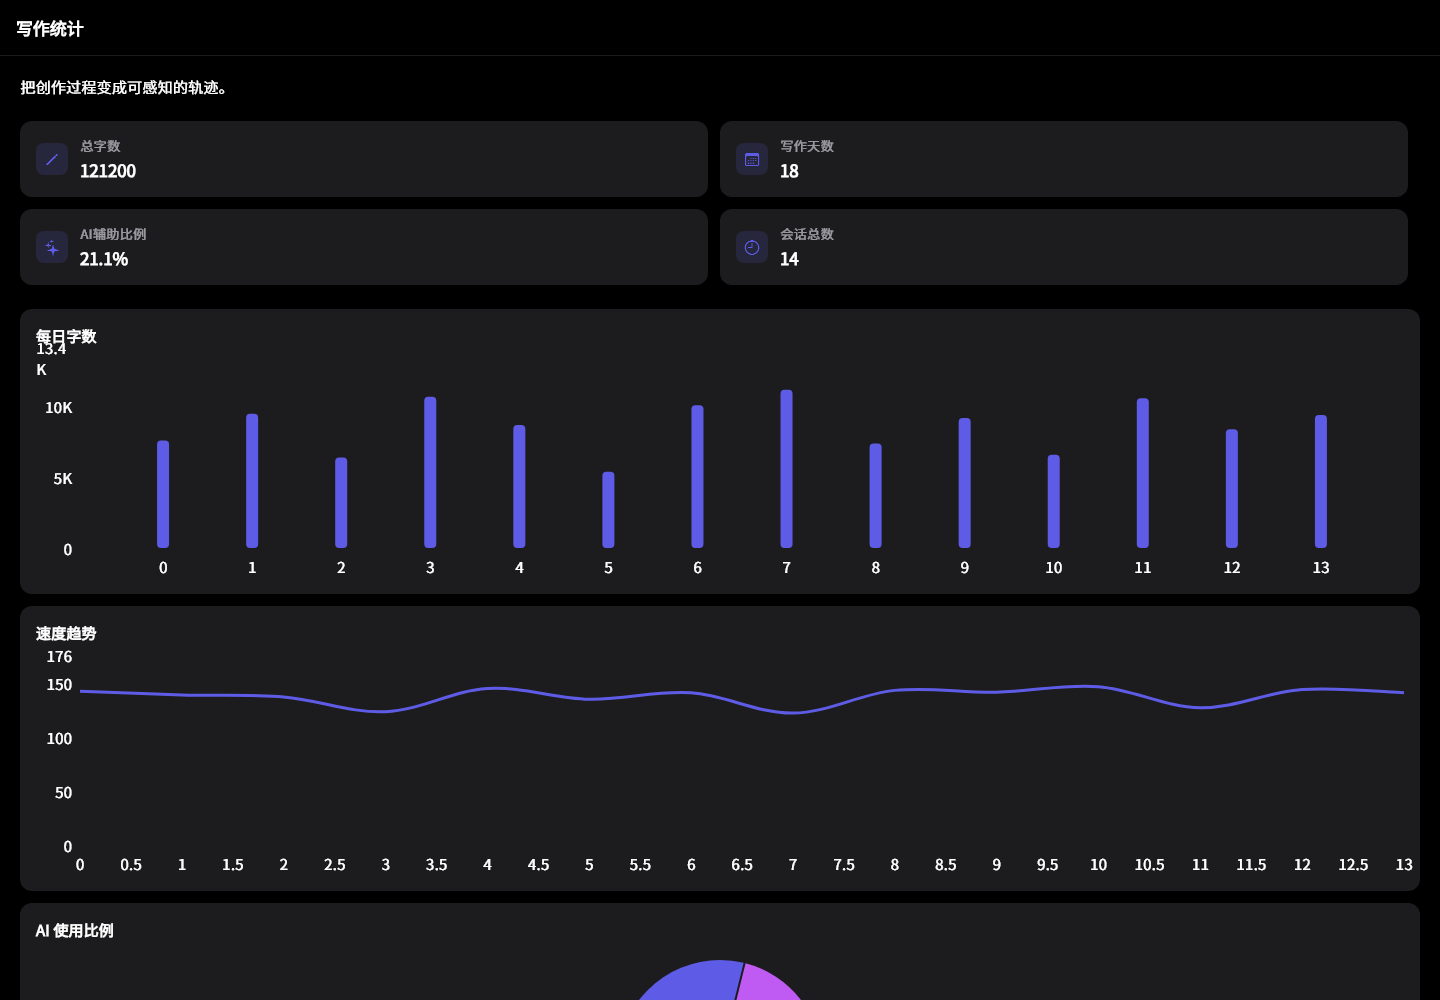
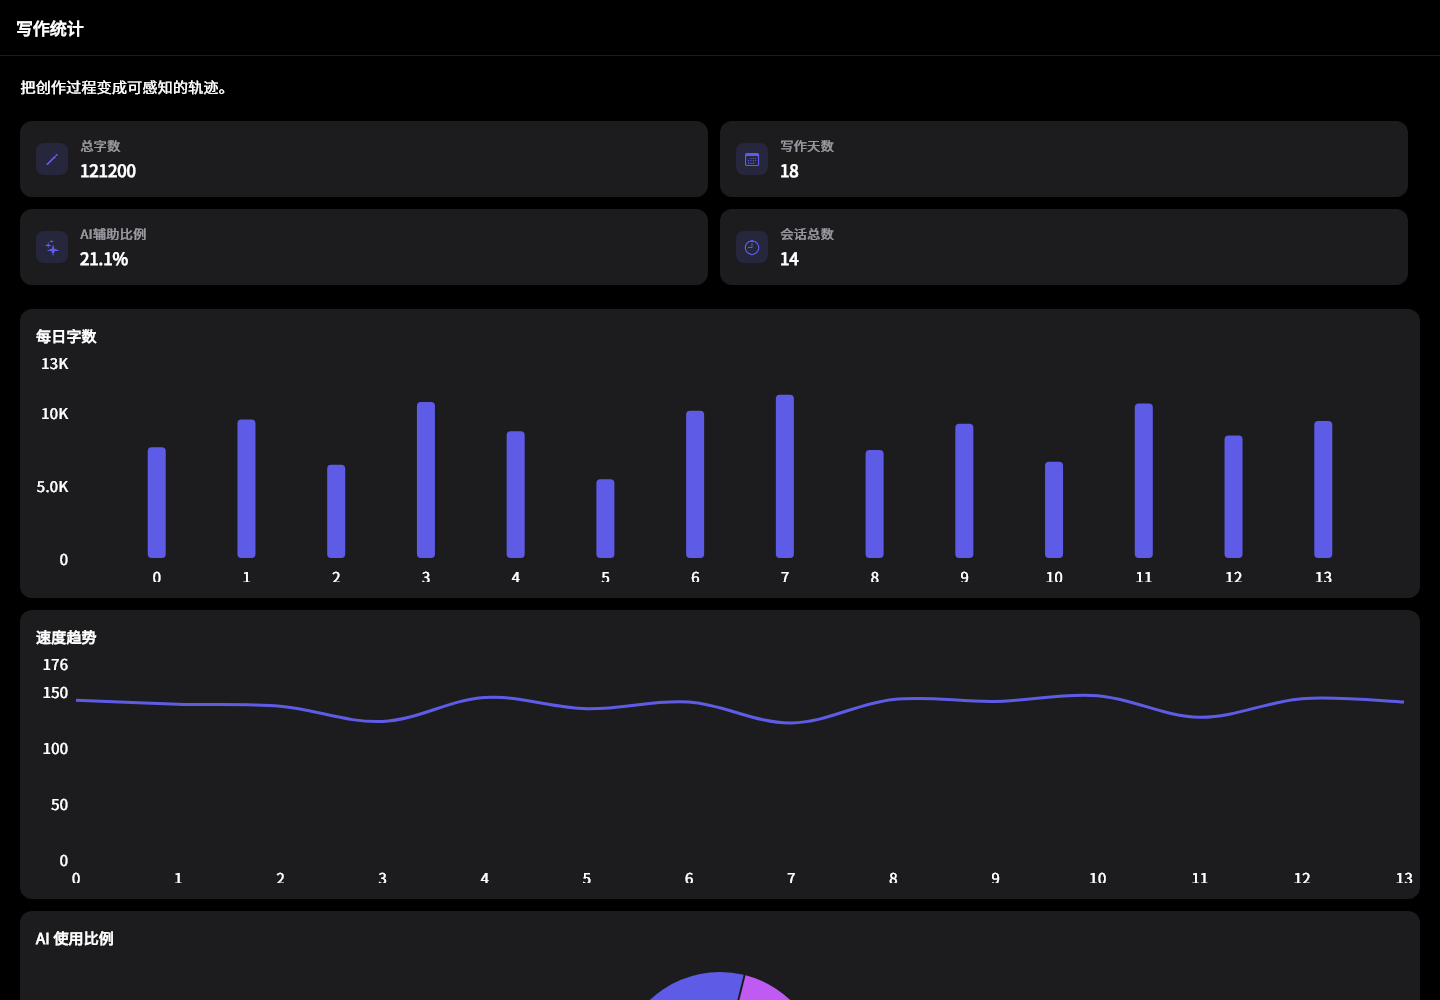
fix(stats): integer day axes and compact K labels for words/speed charts
The daily-words and speed-trend charts used fl_chart's default axis
titles: fractional day ticks (0.5, 1.5 …) on the bottom and an
undersized left gutter that wrapped '13400' into '13 4 K' under the
card title. Add a shared chart_axes helper — integer day labels spaced
by series length, compact K-format counts with a 40pt gutter — widen
the bars to 18px, round padded axis tops, and bump the chart-card
title spacing. Regenerate the writing-stats golden.

diff --git a/lib/features/stats/presentation/charts/chart_axes.dart b/lib/features/stats/presentation/charts/chart_axes.dart
@@ -1,0 +1,48 @@
+/// Shared fl_chart axis builders for the stats charts.
+///
+/// The default axis titles render raw doubles — fractional day indices on
+/// the bottom (0.5, 1.5 …) and oversized numbers that wrap ("13400" →
+/// "13 4 K") on the left. These helpers render integer day labels and
+/// compact K-format counts instead.
+library;
+
+import 'package:fl_chart/fl_chart.dart';
+import 'package:flutter/material.dart';
+
+/// Bottom axis for day-indexed series: integer labels (0, 1, 2 …) spaced
+/// so at most ~15 ticks render regardless of series length.
+AxisTitles bottomDayTitles(int count) {
+  final interval = (count / 15).ceil().clamp(1, 7).toDouble();
+  return AxisTitles(
+    sideTitles: SideTitles(
+      showTitles: true,
+      reservedSize: 24,
+      interval: interval,
+      getTitlesWidget: (value, meta) =>
+          SideTitleWidget(meta: meta, child: Text('${value.round()}')),
+    ),
+  );
+}
+
+/// Left axis with compact labels (13400 → 13.4K) and enough reserved
+/// width that the top label never wraps into the card title.
+AxisTitles leftCompactTitles({double reservedSize = 40}) {
+  return AxisTitles(
+    sideTitles: SideTitles(
+      showTitles: true,
+      reservedSize: reservedSize,
+      getTitlesWidget: (value, meta) =>
+          SideTitleWidget(meta: meta, child: Text(_compact(value))),
+    ),
+  );
+}
+
+String _compact(double value) {
+  if (value >= 1000) {
+    final k = value / 1000;
+    final label = k >= 10 ? k.toStringAsFixed(0) : k.toStringAsFixed(1);
+    return '${label}K';
+  }
+  // Non-integer tops (maxY * 1.2 padding) round to keep labels compact.
+  return value.round().toString();
+}

diff --git a/lib/features/stats/presentation/charts/daily_words_bar_chart.dart b/lib/features/stats/presentation/charts/daily_words_bar_chart.dart
@@ -1,6 +1,7 @@
 import 'package:fl_chart/fl_chart.dart';
 import 'package:flutter/material.dart';
 import 'package:museflow/features/stats/domain/daily_writing_stats.dart';
+import 'chart_axes.dart';
 
 class DailyWordsBarChart extends StatelessWidget {
   const DailyWordsBarChart({super.key, required this.dailyStats});
@@ -26,9 +27,15 @@ class DailyWordsBarChart extends StatelessWidget {
           maxY: maxY <= 0 ? 1 : maxY * 1.2,
           gridData: const FlGridData(show: false),
           borderData: FlBorderData(show: false),
-          titlesData: const FlTitlesData(
-            topTitles: AxisTitles(sideTitles: SideTitles(showTitles: false)),
-            rightTitles: AxisTitles(sideTitles: SideTitles(showTitles: false)),
+          titlesData: FlTitlesData(
+            topTitles: const AxisTitles(
+              sideTitles: SideTitles(showTitles: false),
+            ),
+            rightTitles: const AxisTitles(
+              sideTitles: SideTitles(showTitles: false),
+            ),
+            leftTitles: leftCompactTitles(),
+            bottomTitles: bottomDayTitles(dailyStats.length),
           ),
           barGroups: [
             for (var i = 0; i < dailyStats.length; i++)
@@ -39,7 +46,7 @@ class DailyWordsBarChart extends StatelessWidget {
                     toY: dailyStats[i].totalUnits.toDouble(),
                     color: colorScheme.primary,
                     borderRadius: BorderRadius.circular(4),
-                    width: 12,
+                    width: 18,
                   ),
                 ],
               ),

diff --git a/lib/features/stats/presentation/charts/speed_trend_line_chart.dart b/lib/features/stats/presentation/charts/speed_trend_line_chart.dart
@@ -1,6 +1,7 @@
 import 'package:fl_chart/fl_chart.dart';
 import 'package:flutter/material.dart';
 import 'package:museflow/features/stats/domain/daily_writing_stats.dart';
+import 'chart_axes.dart';
 
 class SpeedTrendLineChart extends StatelessWidget {
   const SpeedTrendLineChart({super.key, required this.dailyStats});
@@ -31,9 +32,15 @@ class SpeedTrendLineChart extends StatelessWidget {
           maxY: maxY <= 0 ? 1 : maxY * 1.2,
           gridData: const FlGridData(show: false),
           borderData: FlBorderData(show: false),
-          titlesData: const FlTitlesData(
-            topTitles: AxisTitles(sideTitles: SideTitles(showTitles: false)),
-            rightTitles: AxisTitles(sideTitles: SideTitles(showTitles: false)),
+          titlesData: FlTitlesData(
+            topTitles: const AxisTitles(
+              sideTitles: SideTitles(showTitles: false),
+            ),
+            rightTitles: const AxisTitles(
+              sideTitles: SideTitles(showTitles: false),
+            ),
+            leftTitles: leftCompactTitles(),
+            bottomTitles: bottomDayTitles(dailyStats.length),
           ),
           lineBarsData: [
             LineChartBarData(

diff --git a/lib/features/stats/presentation/writing_stats_page.dart b/lib/features/stats/presentation/writing_stats_page.dart
@@ -273,7 +273,7 @@ class _ChartSection extends StatelessWidget {
         crossAxisAlignment: CrossAxisAlignment.start,
         children: [
           Text(title, style: Theme.of(context).textTheme.titleMedium),
-          const SizedBox(height: 12),
+          const SizedBox(height: 16),
           child,
         ],
       ),
